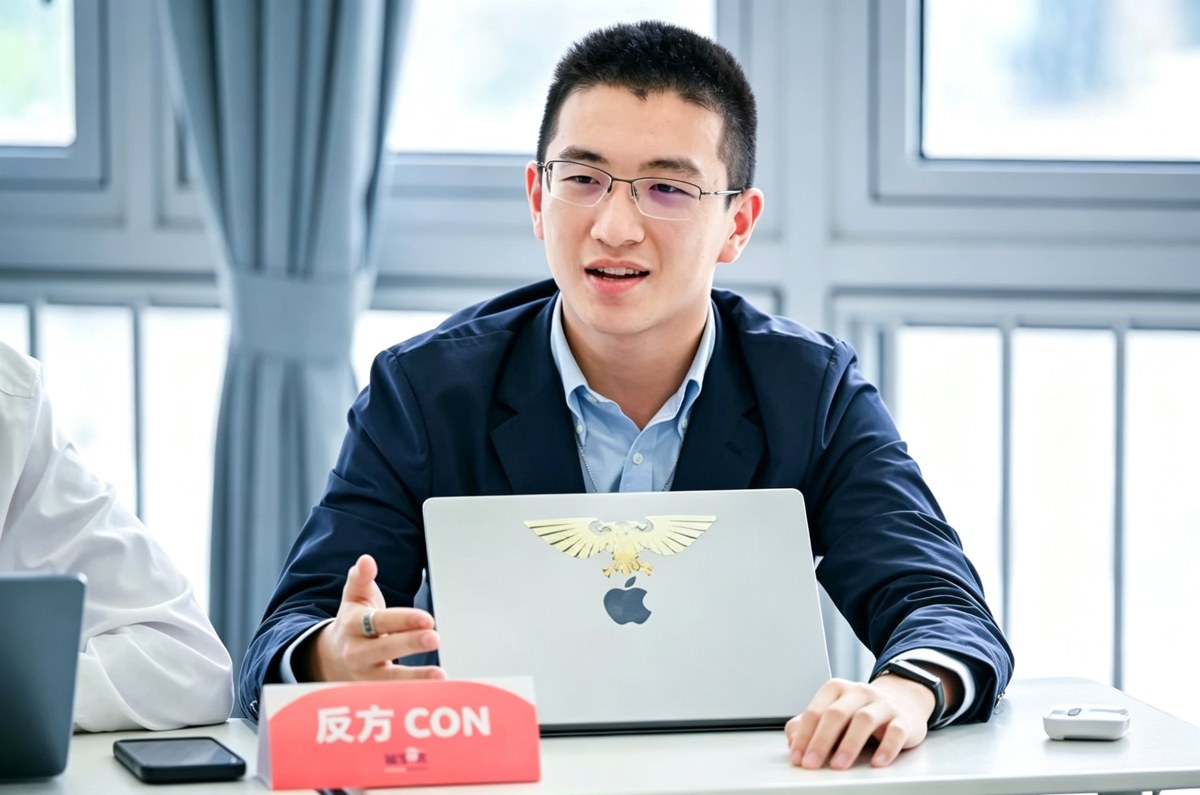
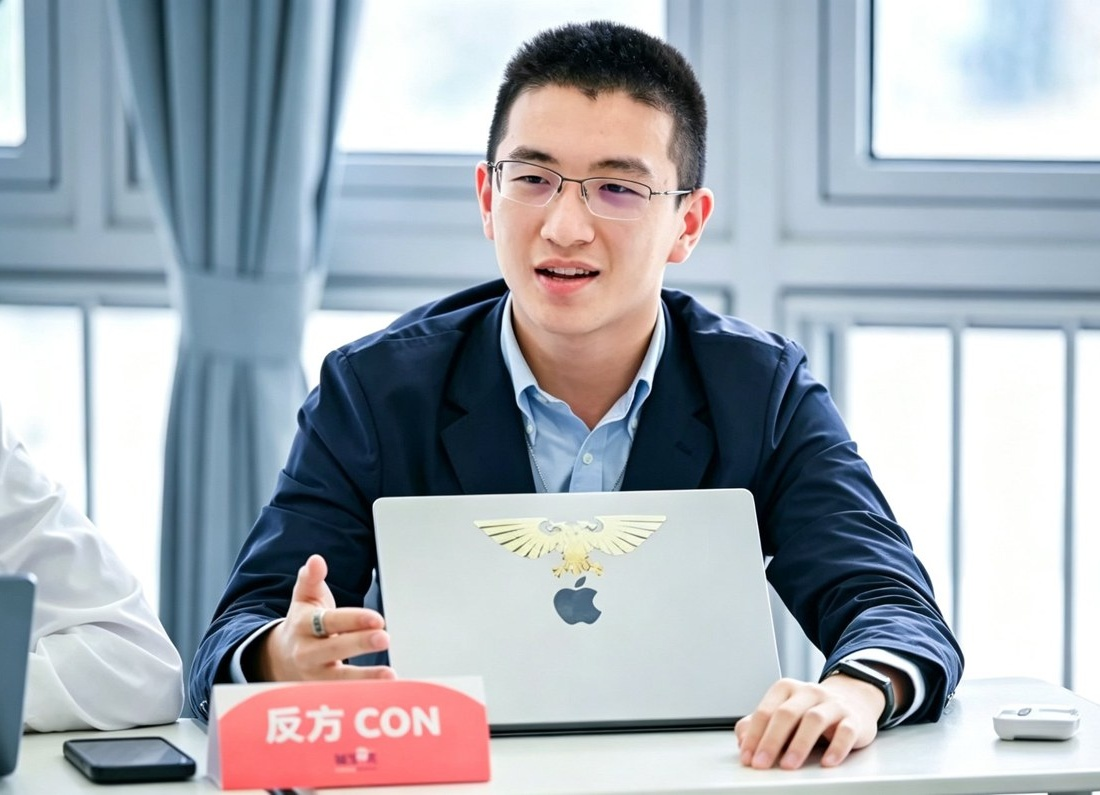
09272153

diff --git a/css/style.css b/css/style.css
@@ -57,7 +57,12 @@ a { color: inherit; text-decoration: none; }
 
 .brand span { color: var(--red-soft); }
 
-.site-nav { display: flex; gap: 8px; }
+.site-nav {
+  display: flex;
+  gap: 8px;
+  /* 右移 70px：About Me 文字与 hero 文字左缘对齐（≥1536 宽恒成立） */
+  margin-right: -70px;
+}
 
 .site-nav a {
   color: rgba(255, 255, 255, 0.75);
@@ -82,26 +87,9 @@ a { color: inherit; text-decoration: none; }
   overflow: hidden;
 }
 
-.hero::before {
-  content: "";
-  position: absolute;
-  left: 0;
-  right: 0;
-  bottom: 0;
-  height: 140px;
-  background: linear-gradient(
-    180deg,
-    rgba(255, 255, 255, 0) 0%,
-    rgba(255, 255, 255, 0.8) 88%,
-    #ffffff 100%
-  );
-  z-index: 1;
-  pointer-events: none;
-}
-
 .hero-fade {
-  height: 200px;
-  background: linear-gradient(180deg, #ffffff 0%, #eef2f9 50%, #ffffff 100%);
+  height: 96px;
+  background: #e9eff6;
   pointer-events: none;
 }
 
@@ -120,24 +108,21 @@ a { color: inherit; text-decoration: none; }
   z-index: 1;
   grid-column: 2 / -1;
   width: 100%;
-  left: 20px;
+  left: 70px;
 }
 
 .hero-photo {
   position: absolute;
-  top: 50px;
-  height: calc(100% - 50px);
-  left: calc(max(-16px, calc((100% - var(--hero-box)) / 2 - 16px)) - 100px);
-  width: calc((min(100%, var(--hero-box)) - var(--hero-gap) - 48px) * 0.6);
+  top: 0;
+  height: 100%;
+  /* 宽度由图片原始比例决定（源图已左右各裁 50px → 1100×795），上下不裁切、完整显示 */
+  aspect-ratio: 1100 / 795;
+  width: auto;
+  left: calc(max(-16px, calc((100% - var(--hero-box)) / 2 - 16px)) - 130px);
   max-width: none;
   min-height: 0;
-  aspect-ratio: auto;
   z-index: 0;
   pointer-events: none;
-  -webkit-mask-image: linear-gradient(to right, rgba(0, 0, 0, 0) 0%, #000 6%, #000 85%, rgba(0, 0, 0, 0) 100%), linear-gradient(to bottom, rgba(0, 0, 0, 0) 0%, #000 14%, #000 100%);
-  -webkit-mask-composite: source-in;
-  mask-image: linear-gradient(to right, rgba(0, 0, 0, 0) 0%, #000 6%, #000 85%, rgba(0, 0, 0, 0) 100%), linear-gradient(to bottom, rgba(0, 0, 0, 0) 0%, #000 14%, #000 100%);
-  mask-composite: intersect;
 }
 
 .hero-photo img {
@@ -186,25 +171,18 @@ a { color: inherit; text-decoration: none; }
   margin: 20px 0 0;
   color: var(--muted);
   font-size: 19.5px;
-  max-width: 580px;
+  max-width: none;
   text-align: justify;
   hyphens: auto;
 }
 
 .hero-text .text-box {
-  /* 目标宽 800px；窄屏按「视口一半 - 58px」收缩，右缘保持距屏 24px，防止切字 */
-  width: min(800px, calc(50vw - 58px));
+  /* 目标宽 600px；窄屏按「视口一半 - 58px」收缩，右缘保持距屏 24px，防止切字 */
+  width: min(600px, calc(50vw - 58px));
   margin-top: 24px;
-  margin-left: -30px;
+  margin-left: 0;
   margin-right: max(-70px, calc((min(100vw, var(--hero-box)) - 100vw) / 2 - 24px));
-  padding: 30px;
-  background: var(--white);
-  border: 1px solid rgba(30, 64, 124, 0.12);
-  border-left: 3px solid var(--red);
-  border-radius: 12px;
-  box-shadow:
-    0 2px 6px rgba(30, 64, 124, 0.06),
-    0 26px 52px rgba(30, 64, 124, 0.16);
+  background: none;
 }
 
 .hero-text .text-box p {

diff --git a/index.html b/index.html
@@ -4,7 +4,7 @@
   <meta name="viewport" content="width=device-width, initial-scale=1.0" data-page-node-id="NH9GjxDGu1AsuQitlwcyzS"><title data-page-node-id="BWw42mDSqh5xg1wG3SAcjG" data-pnid-children="wKHB7OENOdYNC6u4aTFwCH" style="-webkit-user-drag:none !important">Chris Wan — Personal Website</title>
   <title>Chris Wan — Personal Website</title>
   <meta name="description" content="Personal website of Chris Wan, a high school student. Projects, essays and more." data-page-node-id="BOY00zb86EhxLWbbhS6X8Z">
-  <link rel="stylesheet" href="css/style.css?v=20260919fj" data-page-node-id="yfHrbTu5QHPl0B2Dd7Hf7N">
+  <link rel="stylesheet" href="css/style.css?v=20260919gd" data-page-node-id="yfHrbTu5QHPl0B2Dd7Hf7N">
 
 <style id="__dm_no_drag_style__">* { -webkit-user-drag: none !important; }</style><style id="__dm_bindable_badge_style__">[data-sp-bindable="database"]{outline:1px dashed #0088ff;outline-offset:2px;border-radius:4px;}[data-sp-bindable="database"] *{pointer-events:none !important;transition:none !important;animation:none !important;}[data-sp-bindable="database"]{transition:none !important;animation:none !important;}</style></head>
 <body class="home" data-page-node-id="sJF77mECugsOLRe1blJ6dr" style="position: relative;">
